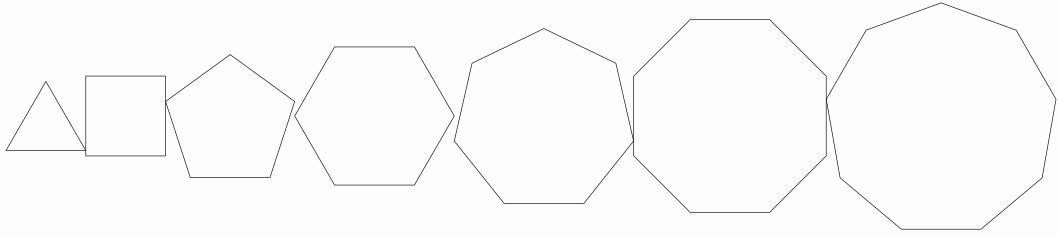
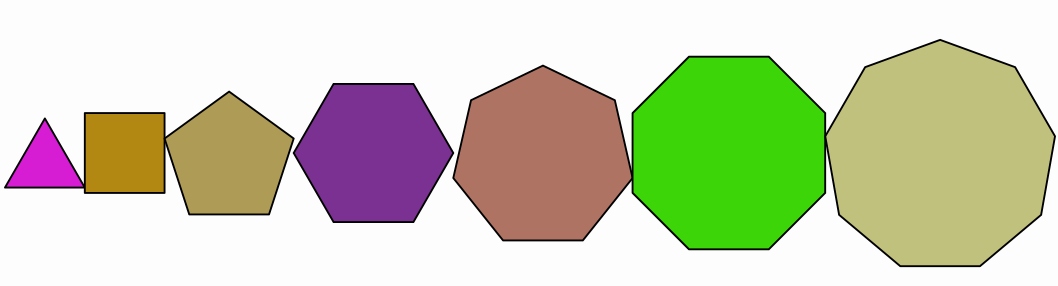
added some colors to examples

diff --git a/manual/04_Transforming/TransformingObjects.md b/manual/04_Transforming/TransformingObjects.md
@@ -26,32 +26,6 @@ The `moveTo` command shifts the object so that its center is positioned at the g
 Shape r=Shape.regularPolygon(5).moveTo(3,3);//A pentagon, with its bounding box centered at (3,3)
 ```
 
-## PutAt
-This command puts the objects so that its specified anchor point is located at a given coordinates. The anchor point of a object can be one of the defined in the `Anchor.Type` enum, that is:
-
--   `BY_CENTER` Center of the object.
-
--   `LEFT, RIGHT, UPPER, LOWER` middle point of the left/right/upper/lower side of the bounding box of the object.
-    
--   `UL, UR, DL, DR` Up-left, up-right, down-left and down-right corners of the bounding box.
-
-Some examples illustrate better. If you execute this code in the `runSketch()` method:
-
-``` java
-Point A = Point.at(.5, .5);
-Shape circ = Shape.circle().putAt(A, Anchor.Type.UPPER);//Set upper point of circle bouding box to A
-Shape arc = Shape.arc(120 * DEGREES).putAt(A, Anchor.Type.UR);//Set up-right point of arc bounding box to A
-Shape sq = Shape.square().putAt(A, Anchor.Type.BY_CENTER);//Set center of square to A
-add(A, circ, arc, sq);//Add everything to the scene
-waitSeconds(5);//Give me time to make a screenshot!
-```
-
-it gives this image:
-
-<img src="01_anchorExample.png" alt="01 anchorExample" style="zoom:50%;" />
-
-The command `putAt` accepts a third argument `gap` to leave a space between the point and the anchor. This gap doesn’t apply for `Anchor.Type.BY_CENTER`.
-
 ## StackTo
 The `StackTo` command works in a similar way that `putAt`, but allows to position an object relative to another one. For example, the following code creates 4 circles, and stacks them into a square in different ways:
 
@@ -81,12 +55,12 @@ As in the `putAt` method, a third parameter `gap` is allowed to add a given gap 
 The `stackTo` command allows to easily generate aligned objects:
 
 ``` java
-Shape previousPol = Shape.regularPolygon(6);//First hexagon
+Shape previousPol = Shape.regularPolygon(3).fillColor(JMColor.random()).thickness(3);//First polygon, with random fill color
 add(previousPol);
 for (int n = 4; n < 10; n++) {
-    Shape pol = Shape.regularPolygon(n).stackTo(previousPol, Anchor.Type.RIGHT);
+    Shape pol = Shape.regularPolygon(n).fillColor(JMColor.random()).thickness(3).stackTo(previousPol, Anchor.Type.RIGHT);
     add(pol);
-    previousPol=pol;//New polygon becomes previous in the next iteration
+    previousPol = pol;//New polygon becomes previous in the next iteration
 }
 camera.adjustToAllObjects();//Everyone should appear in the photo
 waitSeconds(5);//Time for screenshot, but you already should know that
@@ -111,7 +85,7 @@ waitSeconds(5);
 There is shortcut method if you want to simply put the object at the center screen. The method `.center()` is equivalent to `.stackToScreen(Anchor.Type.BY_CENTER)`.
 
 # Scaling objects
-All `MathObject` instances can be scaled with the `scale` command. Scaling can be done from a given scale center or by default, the center of the object.
+All `MathObject` instances can be scaled with the `scale` command. Scaling can be done from a given scale center or by default, the center of the object  bounding box.
 
 ``` java
 add(Shape.circle().shift(-1, 0).scale(.5, 1));//x-scale and y-scale around center
@@ -125,14 +99,15 @@ produces the result:
 <img src="04_ScaleExample1.png" alt="04 scaleExample1" style="zoom:50%;" />
 
 # Rotating objects
-The `rotate` command rotates the object around a given center (or the center of the object if none given). The angle is specified in radians, but can also be given in degrees using the `DEGREES` constant. The format is `object.rotate(center_of_rotation,angle)` or `object.rotate(angle)`.
+The `rotate` command rotates the object around a given center (or the center of the object if none given). The angle is specified in radians, but can also be given in degrees using the `DEGREES` constant. The format is `object.rotate(center_of_rotation,angle)` or `object.rotate(angle)`. As in the `scale` method, if no center is specified, the center of the bounding box is chosen as rotation center.
 
 For example:
 
 ``` java
 Shape ellipse=Shape.circle().scale(.5,1);//Creates an ellipse
+Point rotationCenter=Point.at(.5,0);
 for (int n = 0; n < 180; n+=20) {
-    add(ellipse.copy().rotate(Point.at(.5,0),n*DEGREES));
+    add(ellipse.copy().rotate(rotationCenter,n*DEGREES));
 }
 waitSeconds(5);
 ```
@@ -163,20 +138,22 @@ The `createDirect2DHomothecy(Point A, Point B, Point C, Point D, double alpha)` 
 Look at the following example:
 
 ``` java
-Shape sq = Shape.square().shift(-1.5,-1);
-Point A = sq.getPoint(0);//First vertex of the square (lower-left corner)
-Point B = sq.getPoint(1);//First vertex of the square (lower-right corner)
-Point C = Point.at(1.5, -1);//Destiny point of A
-Point D = Point.at(1.7, .5);//Destiny point of B
+Shape sq = Shape.square().shift(-1.5, -1).fillColor("darkgreen").fillAlpha(.3);//Square, fill color dark green, and opacity 30%
+Point A = sq.getPoint(0).drawColor("darkblue");//First vertex of the square (lower-left corner), dark blue color
+Point B = sq.getPoint(1).drawColor("darkblue");//First vertex of the square (lower-right corner), dark blue color
+Point C = Point.at(1.5, -1).drawColor("darkred");//Destiny point of A, dark red color
+Point D = Point.at(1.7, .5).drawColor("darkred");//Destiny point of B, dark red color
 add(A, B, C, D);
 for (double alpha = 0; alpha <= 1; alpha += .2) {
     AffineJTransform transform = AffineJTransform.createDirect2DHomothecy(A, B, C, D, alpha);
-    add(transform.getTransformedObject(sq));
+    add(transform.getTransformedObject(sq));//Adds a copy of the square, transformed
 }
 waitSeconds(5);
 ```
 
 Produces the following sequence of interpolated transforms from one square to another. Note that an homothecy may change scale of objects, but proportions are unaltered:
+
+
 
 <img src="06_homothecy1.png" alt="06 homothecy1" style="zoom:50%;" />
 
@@ -196,13 +173,13 @@ In both cases, the `alpha` parameter works in a similar way than the homothecy t
 An example of `createReflection` is showed in the following source code:
 
 ``` java
-Shape sq = Shape.regularPolygon(5);
-Point A = sq.getPoint(0);//First vertex of the pentagon(lower-left corner)
-Point B = A.copy().shift(.5,-.2);
+Shape sq = Shape.regularPolygon(5).fillColor("violet").fillAlpha(.3);//Regular pentagon, fill violet, opacity 30%
+Point A = sq.getPoint(0).copy().drawColor("darkblue");//Copy of the first vertex of the pentagon(lower-right corner), color dark blue
+Point B = A.copy().shift(.5, -.2).drawColor("darkred");//Copy of A, shifted (.5,-2), color dark red
 add(A, B);
 for (double alpha = 0; alpha <= 1; alpha += .2) {
     AffineJTransform transform = AffineJTransform.createReflection(A, B, alpha);//Reflection that maps A into B
-    add(transform.getTransformedObject(sq));
+    add(transform.getTransformedObject(sq));//Adds a copy of the pentagon, transformed
 }
 camera.adjustToAllObjects();
 waitSeconds(5);
@@ -213,18 +190,23 @@ waitSeconds(5);
 There is also a more general way to define an affine transform using `createAffineTransformation(Point A, Point B, Point C, Point D, Point E, Point F, double lambda)`. It returns the (only) affine transform that maps the points (A,B,C) into (D,E,F), with the `lambda` interpolation parameter as in the previous methods. Here’s an example:
 
 ``` java
-Shape sq = Shape.square();
-Shape circ = Shape.circle().scale(.5).shift(.5, .5);//A circle inscribed into the square
-Point A = Point.at(0, 0); //A maps to D
-Point B = Point.at(1, 0); //B maps to E
-Point C = Point.at(0, 1); //C maps to F
-Point D = Point.at(1.5, -.5).dotStyle(DotSyle.CROSS);
-Point E = Point.at(2, 0).dotStyle(DotSyle.CROSS);
-Point F = Point.at(1.75, .75).dotStyle(DotSyle.CROSS);
+Shape sq = Shape.square().drawColor("brown").thickness(3);
+Shape circ = Shape.circle().scale(.5).shift(.5, .5).fillColor("orange").fillAlpha(.1);//A circle inscribed into the square
+//We create the points with layer(1) so that the draw over the square and circles (by default in layer 0)
+Point A = Point.at(0, 0).drawColor("darkblue").layer(1); 
+Point B = Point.at(1, 0).drawColor("darkblue").layer(1); 
+Point C = Point.at(0, 1).drawColor("darkblue").layer(1); 
+Point D = Point.at(1.5, -.5).dotStyle(DotSyle.PLUS).thickness(1).drawColor("darkgreen");
+Point E = Point.at(2, 0).dotStyle(DotSyle.PLUS).thickness(1).drawColor("darkgreen");
+Point F = Point.at(1.75, .75).dotStyle(DotSyle.PLUS).thickness(2).drawColor("darkgreen");
 add(sq, circ, A, B, C, D, E, F);
-AffineJTransform transform = AffineJTransform.createAffineTransformation(A, B, C, D, E, F, 1);
-add(transform.getTransformedObject(sq));
-add(transform.getTransformedObject(circ));
+
+for (double alpha = 0; alpha <= 1; alpha += .2) {
+    //A maps to D,B maps to E, C maps to F
+    AffineJTransform transform = AffineJTransform.createAffineTransformation(A, B, C, D, E, F, alpha);
+    add(transform.getTransformedObject(sq));//Adds a copy of the square, transformed
+    add(transform.getTransformedObject(circ));//Adds a copy of the circle, transformed
+}
 camera.adjustToAllObjects();
 waitSeconds(5);
 ```

diff --git a/manual/05_Animations/Animations.md b/manual/05_Animations/Animations.md
@@ -170,12 +170,12 @@ The `MoveAlongPath` animations move an object along a specified path. You can pr
 In this example, we show 2 squares moving along  a circle:
 
 ```java
-Shape c = Shape.circle();
-Shape a = Shape.square().scale(.3);
+Shape c = Shape.circle().fillColor("orange").thickness(3);
+Shape a = Shape.square().scale(.3).fillColor("darkblue").fillAlpha(.7);
 Shape b = a.copy();
-add(c,a, b);
-Animation anim = new MoveAlongPath(5, c, a,Anchor.UL);
-Animation anim2 = new MoveAlongPath(5, c, b,Anchor.DR);
+add(c, a, b);
+Animation anim = new MoveAlongPath(5, c, a, Anchor.Type.UL);
+Animation anim2 = new MoveAlongPath(5, c, b, Anchor.Type.DR);
 playAnimation(anim, anim2);
 waitSeconds(3);
 ```
@@ -327,14 +327,14 @@ waitSeconds(3);
 ![affineAnimation](affineAnimation.gif)
 
 ## Reflection
-The animation `Commands.reflection(double runtime, Point A, Point B, MathObject… objects)` animates the reflection that maps point A into B.
+The animation `Commands.reflection(double runtime, Point A, Point B, MathObject… objects)` animates the reflection that maps point A into B. Note that the point A is also transformed, as it is an instance of a point of the shape.
 
 ```java
-Shape reg=Shape.regularPolygon(5).center();
-Point A=reg.getPoint(0).drawColor(JMColor.BLUE);
-Point B=Point.at(1,.5).drawColor(JMColor.RED);
-add(A,B);
-Animation anim=Commands.reflection(3, A, B, reg);
+Shape reg = Shape.regularPolygon(5).center();
+Point A = reg.getPoint(0).drawColor(JMColor.BLUE);
+Point B = Point.at(1, .5).drawColor(JMColor.RED);
+add(A, B);
+Animation anim = Commands.reflection(3, A, B, reg);
 playAnimation(anim);
 waitSeconds(3);
 ```

diff --git a/index.md b/index.md
@@ -22,12 +22,12 @@ Version 0.8.6:
 * Added `ParametricCurve.make` and `ParametricCurve.makePolar` static methods.
 
 # Prerrequisites
-A machine with JDK 1.8 installed. A Java IDE editor like [Netbeans](https://netbeans.org/) or [Eclipse](https://www.eclipse.org/projects/) is recommended.
+A machine with JDK 1.8 installed. A Java IDE like [Netbeans](https://netbeans.org/) or [Eclipse](https://www.eclipse.org/projects/) is recommended.
 
 Currently, the library is tested on
 
 * Windows 10 with Apache Netbeans 12.1 and Oracle JDK 1.8.0_261
-* LUbuntu 20.04, with Apache Netbeans 12.1 an openjdk 11.0.7
+* LUbuntu 20.04, with Apache Netbeans 12.1 and openjdk 11.0.7
 
 # Installing
 This library is [Maven](https://maven.apache.org/) based, which means it is very easy, using a modern Java IDE, to create a project that automatically downloads all needed dependencies to run your animations. A detailed step-by-step tutorial to create a project that uses JMathAnim is detailed [here](manual\00_Installing\Installing.html).
